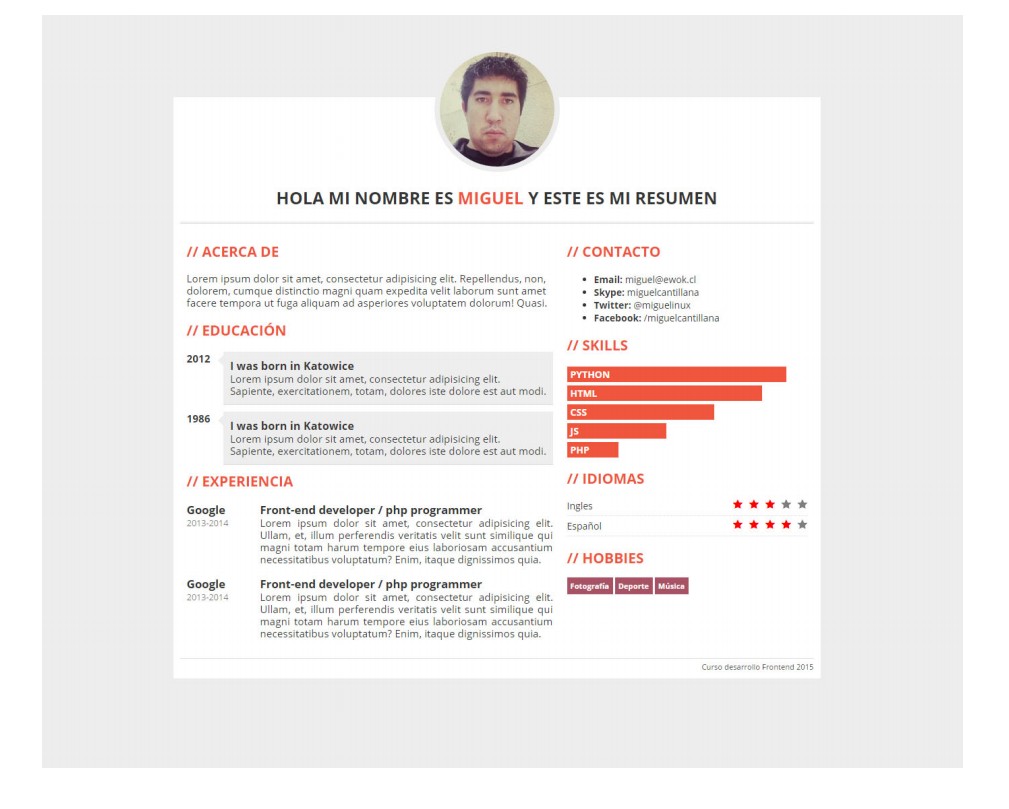
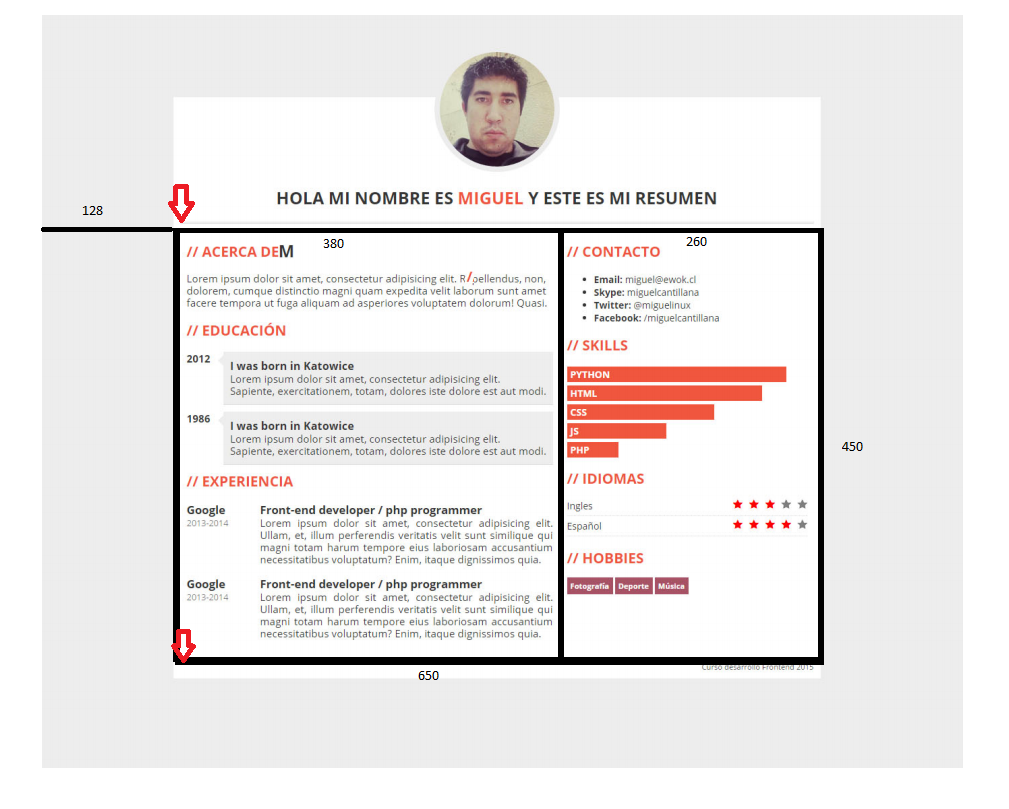
Add: need fix education

Changed region(s): [[0.0307, 0.2163, 0.8603, 0.8344]]

diff --git a/index.html b/index.html
@@ -2,8 +2,164 @@
 <html>
 <head>
 	<title>Curriculum</title>
-</head>
-<body>
+	<meta charset="utf-8">
+	<link rel="stylesheet" type="text/css" href="style.css">
+  </head>
+  <body>
 
-</body>
+    <div class="row">
+      <header>
+      	<b class="title">
+      		<div class="imageresponsive ">
+      			<img class="circulo" id="cara" src="cara.png">
+      		</div>
+      		HOLA MI NOMBRE ES <span style="color: red">MIGUEL</span> Y ESTE ES MI RESUMEN
+      	</b>
+      </header>
+
+      <div class="col col-md-6" id="main-col-izda">
+      	<div class="box">
+      		<h1>//ACERCA DE
+      		</h1>
+      		Lorem ipsum dolor sit amet, consectetur adipisicing elit, sed do eiusmod
+      		tempor incididunt ut labore et dolore magna aliqua. Ut enim ad minim veniam,
+      		quis nostrud exercitation ullamco laboris nisi ut aliquip ex ea commodo
+      		consequat. 
+      	</div>
+      	<div class="box">
+      		<h1>//EDUCACIÓN
+      		</h1>
+      		<div class="educacion">
+	      		<div class="col col-md-1">
+	      			<b>2012</b>
+	      		</div>
+	      		<div class="col col-md-9 bubble">
+	      			<b>I was born in Katowice</b><br>
+	      			Lorem ipsum dolor sit amet, consectetur adipisicing elit, sed do eiusmod tempor incididunt ut labore et dolore magna aliqua.
+	      		</div>
+	      		<div class="white-space"></div>
+			</div>
+      		<div class="education">
+	      		<div class="col col-md-1">
+	      			<b>1986</b>
+	      		</div>
+	      		<div class="col col-md-9 bubble">
+	      			<b>I was born in Katowice</b><br>
+	      			Lorem ipsum dolor sit amet, consectetur adipisicing elit, sed do eiusmod tempor incididunt ut labore et dolore magna aliqua.
+	      		</div>
+	      		<div class="white-space"></div>
+	      	</div>
+      	</div>
+      	<div class="box">
+      		<h1>//EXPERIENCIA
+      		</h1>
+      		<div class="experiencia">
+      			<div class="col col-md-2">
+	      			<b>Google</b><br>
+	      			<p class="fecha">2013-2014</p>
+	      		</div>
+	      		<div class="col col-md-8">
+	      			<b>Front-end developer / php programmer</b><br>
+	      			Lorem ipsum dolor sit amet, consectetur adipisicing elit, sed do eiusmod tempor incididunt ut labore et dolore magna aliqua. 
+	      			Ut enim ad minim veniam, quis nostrud exercitation ullamco laboris nisi ut aliquip ex ea commodo
+	      			consequat.
+	      		</div>
+	      		<div class="white-space"></div>
+      		</div>
+      		<div class="experiencia">
+      			<div class="col col-md-2">
+	      			<b>Google</b><br>
+	      			<p class="fecha">2013-2014</p>
+	      		</div>
+	      		<div class="col col-md-8">
+	      			<b>Front-end developer / php programmer</b><br>
+	      			Lorem ipsum dolor sit amet, consectetur adipisicing elit, sed do eiusmod tempor incididunt ut labore et dolore magna aliqua. 
+	      			Ut enim ad minim veniam, quis nostrud exercitation ullamco laboris nisi ut aliquip ex ea commodo
+	      			consequat.
+	      		</div>
+	      		<div class="white-space"></div>
+      		</div>
+      	</div>
+      </div>
+
+      <div class="col col-md-4" id="main-col-drcha">
+      	<div class="box">
+      		<h1>//CONTACTO
+      		</h1>
+      		<ul>
+      			<li>
+      				<b>Email</b>:
+      				miguel@ewok.cl
+      			</li>
+      			<li>
+      				<b>Skype</b>:
+      				miguelcantillana
+      			</li>
+      			<li>
+      				<b>Twitter</b>:
+      				@miguelinux
+      			</li>
+      			<li>
+      				<b>Facebook</b>:
+      				/miguelcantillana
+      			</li>
+      		</ul>
+      	</div>
+      	<div class="box">
+      		<h1>//SKILLS
+      		</h1>
+      		<div class="skills_box" style="width: 85%">
+	      		<div class="skill" style="width: 100%">
+	      			PYTHON
+	      		</div>
+	      		<div class="skill" style="width: 80%">
+	      			HTML
+	      		</div>
+	      		<div class="skill" style="width: 60%">
+	      			CSS
+	      		</div>
+	      		<div class="skill" style="width: 40%">
+	      			JS
+	      		</div>
+	      		<div class="skill" style="width: 20%">
+	      			PHP
+	      		</div>
+      		</div>
+      	</div>
+      	<div class="box">
+      		<h1>//IDIOMAS
+      		</h1>
+      		<div class="idioma">
+      			Ingles
+      			<div class="stars_container">
+      				<div class="stars_marked">★★★</div>
+      				<div class="stars_not_marked">★★</div>
+      			</div>
+      		</div>
+      		<div class="idioma">
+      			Español
+      			<div class="stars_container">
+      				<div class="stars_marked">★★★★</div>
+      				<div class="stars_not_marked">★</div>
+      			</div>
+      		</div>
+      	</div>
+      	<div class="box">
+      		<h1>//HOBBIES
+      		</h1>
+      		<div class="hobbie">
+      			Fotografía
+      		</div>
+      		<div class="hobbie">
+      			Deporte
+      		</div>
+      		<div class="hobbie">
+      			Música
+      		</div>
+      	</div>
+      </div>
+      <footer>Curso desarrollo Frontend 2015</footer>
+    </div>
+
+  </body>
 </html>

diff --git a/style.css b/style.css
@@ -1,0 +1,150 @@
+
+body{
+  background-color: gainsboro;
+}
+.row{
+	margin: 10%;
+	height: auto;
+  clear: both;
+  background-color: white;#EDEDED;
+}
+header{
+	text-align: center;
+	width: 100%;
+  height: auto;
+  padding-bottom: 3%;
+	border-bottom: solid;
+	border-bottom-width: 2px;
+}
+.title{
+  font-size: 2vw;
+}
+.imageresponsive{
+  width: 100%;
+}
+#cara{
+  width: 20%;
+  margin-top: -10%;
+}
+
+.circulo {
+  border-radius: 50%;
+  border-style: solid;
+  border-color: gainsboro;
+}
+.col{
+  float: left;
+	height: auto;
+}
+
+@media (max-width: 480px){
+  .col-md-6{
+    width: 100%;
+  }
+  .col-md-4{
+    width: 100%;
+  }
+  .row{
+    margin: 10% 0%; 
+  }
+}
+@media (min-width: 481px){
+  .col-md-6{
+    width: 60%;
+  }
+  .col-md-4{
+    width: 40%;
+  }
+}
+
+.col-md-9{
+  width: 90%;
+}
+.col-md-8{
+  width: 80%;
+}
+.col-md-2{
+  width: 20%;
+}
+.col-md-1{
+  width: 10%;
+}
+#main-col-izda{
+}
+#main-col-drcha{
+}
+footer{
+	border-top: solid;
+	border-top-width: thin;
+	text-align: right;
+	font-size: 1.3vw;
+	padding: 0.5vw;
+	box-sizing: border-box;
+	width: 100%;
+	clear: both;
+}
+.box{
+	padding: 1% 2%;
+	width: 100%;
+	height: auto;
+  font-size: 1.4vw;
+  box-sizing: border-box;
+}
+.box h1{
+	color: red;
+	font-size: 1.8vw
+}
+.imageresponsive{
+	width: 100%
+}
+.white-space{
+	width: 100%;
+	padding-bottom: 0.7vw;
+	clear: both;
+}
+.bubble{
+	background-color: lightgrey;
+	padding: 1vw;
+	box-sizing: border-box;
+  float: right;
+}
+li{
+  padding-bottom: 0.3vw;
+}
+.skill{
+  font-size: 0.9em;
+  background-color: red;
+  color: white;
+  font-weight: bold;
+  padding: 0.4vw;
+  margin-bottom: 0.4vw
+}
+.idioma{
+  border-bottom: 0.1vw;
+  border-bottom-style: solid;
+  border-bottom-color: lightgrey;
+  padding: 0.3vw
+}
+.stars_container{
+  float: right;
+  margin-top: -0.5vw;
+  font-size: 1.3em;
+  clear:both;
+}
+.stars_marked{
+  float: left;
+  color: red
+}
+.stars_not_marked{
+  float: left;
+}
+.hobbie{
+  float: left;
+  background-color: #80004e;
+  color: white;
+  font-weight: bold;
+  padding: 0.5vw;
+  margin: 0.2vw;
+  border-style: outset;
+  border-color: #80007a;
+}
